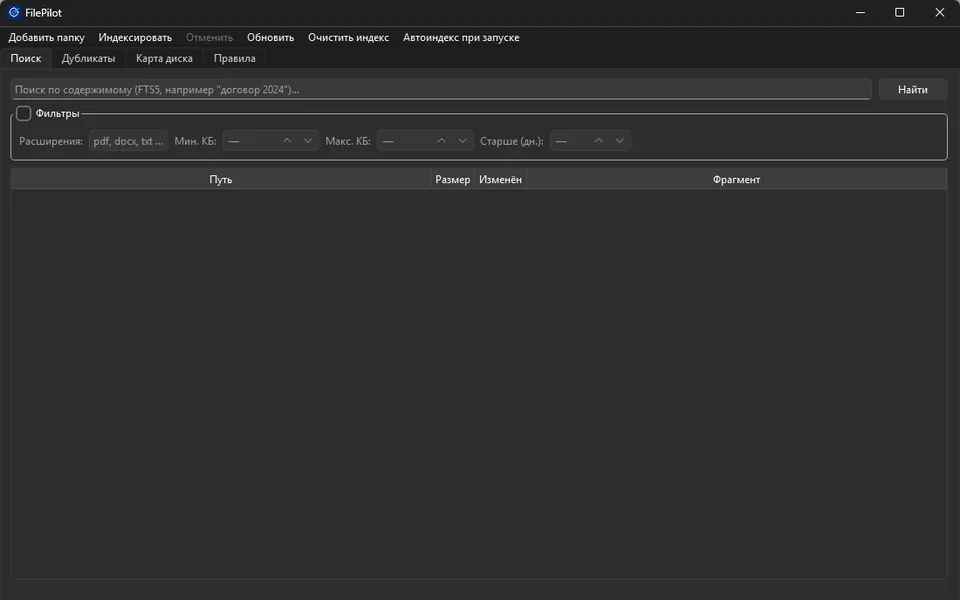
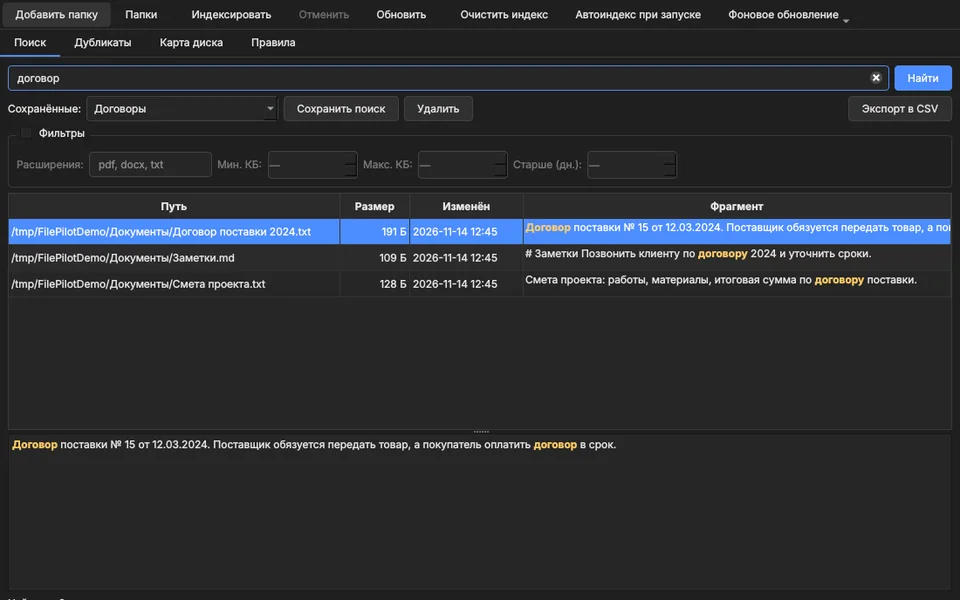
FilePilot page: download buttons, RU/EN description, updated screenshots
Claude-Session: https://claude.ai/code/session_01NerikoswBbYBDuZytkpSfQ

diff --git a/project-filepilot.html b/project-filepilot.html
@@ -4,13 +4,13 @@
     <meta charset="UTF-8">
     <meta name="viewport" content="width=device-width, initial-scale=1.0">
     <title>FilePilot — Portfolio</title>
-    <meta name="description" content="Десктопное приложение (EXE) для Windows: поиск по содержимому, поиск дубликатов и умная автосортировка. Полная приватность.">
+    <meta name="description" content="Программа для Windows с открытым кодом: поиск по содержимому файлов, дубликаты, карта диска и автосортировка. Русский и английский интерфейс. Всё работает локально.">
     <meta name="theme-color" content="#050505">
     <meta property="og:site_name" content="Portfolio">
     <meta property="og:locale" content="ru_RU">
     <meta property="og:type" content="website">
     <meta property="og:title" content="FilePilot — Portfolio">
-    <meta property="og:description" content="Десктопное приложение (EXE) для Windows: поиск по содержимому, поиск дубликатов и умная автосортировка. Полная приватность.">
+    <meta property="og:description" content="Программа для Windows с открытым кодом: поиск по содержимому файлов, дубликаты, карта диска и автосортировка. Русский и английский интерфейс. Всё работает локально.">
     <meta property="og:image" content="https://dyrty11.github.io/img/og-filepilot.jpg">
     <meta property="og:image:width" content="1200">
     <meta property="og:image:height" content="630">
@@ -18,10 +18,10 @@
     <link rel="canonical" href="https://dyrty11.github.io/project-filepilot.html">
     <meta property="og:url" content="https://dyrty11.github.io/project-filepilot.html">
     <meta name="project-slug" content="filepilot">
-    <script type="application/ld+json">{"@context":"https://schema.org","@graph":[{"@type":"CreativeWork","@id":"https://dyrty11.github.io/project-filepilot.html#project","name":"FilePilot","description":"Десктопное приложение (EXE) для Windows: поиск по содержимому, поиск дубликатов и умная автосортировка. Полная приватность.","url":"https://dyrty11.github.io/project-filepilot.html","image":"https://dyrty11.github.io/img/og-filepilot.jpg","inLanguage":"ru","author":{"@type":"Person","name":"dyrty11","url":"https://github.com/dyrty11"}},{"@type":"BreadcrumbList","itemListElement":[{"@type":"ListItem","position":1,"name":"Главная","item":"https://dyrty11.github.io/"},{"@type":"ListItem","position":2,"name":"Проекты","item":"https://dyrty11.github.io/projects.html"},{"@type":"ListItem","position":3,"name":"FilePilot","item":"https://dyrty11.github.io/project-filepilot.html"}]}]}</script>
+    <script type="application/ld+json">{"@context":"https://schema.org","@graph":[{"@type":"CreativeWork","@id":"https://dyrty11.github.io/project-filepilot.html#project","name":"FilePilot","description":"Программа для Windows с открытым кодом: поиск по содержимому файлов, дубликаты, карта диска и автосортировка. Русский и английский интерфейс. Всё работает локально.","url":"https://dyrty11.github.io/project-filepilot.html","image":"https://dyrty11.github.io/img/og-filepilot.jpg","inLanguage":"ru","author":{"@type":"Person","name":"dyrty11","url":"https://github.com/dyrty11"}},{"@type":"BreadcrumbList","itemListElement":[{"@type":"ListItem","position":1,"name":"Главная","item":"https://dyrty11.github.io/"},{"@type":"ListItem","position":2,"name":"Проекты","item":"https://dyrty11.github.io/projects.html"},{"@type":"ListItem","position":3,"name":"FilePilot","item":"https://dyrty11.github.io/project-filepilot.html"}]}]}</script>
     <meta name="twitter:card" content="summary_large_image">
     <meta name="twitter:title" content="FilePilot — Portfolio">
-    <meta name="twitter:description" content="Десктопное приложение (EXE) для Windows: поиск по содержимому, поиск дубликатов и умная автосортировка. Полная приватность.">
+    <meta name="twitter:description" content="Программа для Windows с открытым кодом: поиск по содержимому файлов, дубликаты, карта диска и автосортировка. Русский и английский интерфейс. Всё работает локально.">
     <meta name="twitter:image" content="https://dyrty11.github.io/img/og-filepilot.jpg">
     <link rel="icon" href="favicon.svg" type="image/svg+xml">
     <link rel="apple-touch-icon" href="apple-touch-icon.png">
@@ -74,7 +74,7 @@
         <div class="container" id="main" tabindex="-1">
             <nav class="crumbs" aria-label="Навигация"><a href="projects.html">← Все проекты</a></nav>
             <article id="projectDetail" aria-live="polite" data-reveal><p class="detail-msg">Загрузка…</p></article>
-        <noscript><h1>FilePilot</h1><p class="detail-msg">Десктопное приложение (EXE) для Windows: поиск по содержимому, поиск дубликатов и умная автосортировка. Полная приватность. <a href="projects.html">Все проекты</a>.</p></noscript>
+        <noscript><h1>FilePilot</h1><p class="detail-msg">Программа для Windows с открытым кодом: поиск по содержимому файлов, дубликаты, карта диска и автосортировка. Русский и английский интерфейс. Всё работает локально. <a href="projects.html">Все проекты</a>.</p></noscript>
         </div>
         <footer>
             <div class="footer-content">

diff --git a/project.js b/project.js
@@ -64,6 +64,22 @@
         document.head.appendChild(s);
     }
 
+    function addDownloads(parent, p, en) {
+        if (!Array.isArray(p.downloads) || !p.downloads.length) return;
+        var box = el('div', 'detail-downloads');
+        var n = 0;
+        p.downloads.slice(0, 6).forEach(function (d) {
+            var u = safeUrl(d && d.url); if (!u) return;
+            var b = el('a', 'btn ' + (n === 0 ? 'btn-primary ' : '') + 'detail-cta', String((en ? d.labelEn : d.label) || d.label || 'Скачать'));
+            b.href = u; b.target = '_blank'; b.rel = 'noopener noreferrer';
+            box.appendChild(b); n++;
+        });
+        if (!n) return;
+        parent.appendChild(box);
+        var note = en ? p.downloadNoteEn : p.downloadNote;
+        if (note) parent.appendChild(el('p', 'detail-note', String(note)));
+    }
+
     function render(p) {
         var title = String(p.title || 'Проект');
         document.title = title + ' — Portfolio';
@@ -92,6 +108,7 @@
             info.appendChild(tags);
         }
         info.appendChild(el('p', 'detail-lead', String(p.description || '')));
+        addDownloads(info, p, false);
         if (p.details) {
             String(p.details).split(/\n\s*\n/).forEach(function (para) {
                 if (para.trim()) info.appendChild(el('p', 'detail-text', para.trim()));
@@ -121,8 +138,15 @@
         if (Array.isArray(p.gallery) && p.gallery.length) {
             var gal = el('section', 'detail-gallery');
             gal.appendChild(el('h2', 'detail-sub', 'Скриншоты'));
-            p.gallery.slice(0, 6).forEach(function (g) {
+            var lastGroup = '';
+            p.gallery.slice(0, 12).forEach(function (g) {
                 var src = safeImg(g && g.src); if (!src) return;
+                if (g.group && g.group !== lastGroup) {
+                    lastGroup = String(g.group);
+                    var gh = el('h3', 'detail-group', lastGroup);
+                    if (/^[A-Za-z]/.test(lastGroup)) gh.setAttribute('lang', 'en');
+                    gal.appendChild(gh);
+                }
                 var fig = el('figure', 'detail-shot');
                 var gi = el('img'); gi.src = src; gi.alt = String(g.alt || ''); gi.loading = 'lazy'; gi.decoding = 'async';
                 if (g.width && g.height) { gi.width = Number(g.width) || 0; gi.height = Number(g.height) || 0; }

diff --git a/index.html b/index.html
@@ -130,7 +130,7 @@
                             <span class="tag"><svg viewBox="0 0 24 24" fill="none" stroke="currentColor" stroke-width="2" stroke-linejoin="miter" stroke-linecap="square"><path d="M6 6h12v12H6z"/><path d="M10 10h4v4h-4z" fill="var(--ic2, currentColor)" stroke="none"/><path d="M9.5 2.5V6M14.5 2.5V6M9.5 18v3.5M14.5 18v3.5"/></svg> EXE</span>
                         </div>
                         <a class="details-link" href="project-filepilot.html" aria-label="Подробнее о проекте FilePilot">Подробнее →</a>
-                        <a href="https://pomf2.lain.la/f/ff7rdfxg.7z" target="_blank" rel="noopener noreferrer" class="action-btn">
+                        <a href="https://github.com/dyrty11/filepilot/releases/latest/download/FilePilotSetup.exe" target="_blank" rel="noopener noreferrer" class="action-btn">
                             <span>Скачать (Windows)</span>
                             <svg viewBox="0 0 24 24" fill="none" stroke="currentColor" stroke-width="2" stroke-linejoin="miter" stroke-linecap="square"><path d="M12 3v12"/><path d="M6.5 10.5L12 16l5.5-5.5"/><path d="M3.5 20.5h17"/></svg>
                         </a>

diff --git a/cards.css b/cards.css
@@ -57,3 +57,9 @@
 #facts { margin-top: 90px; }
 .service-card p a { color: var(--accent); text-decoration: underline; text-underline-offset: 3px; }
 .service-card p a:hover { color: var(--text-main); }
+.detail-downloads { display: flex; flex-wrap: wrap; gap: 10px; margin: 14px 0 6px; }
+.detail-downloads .detail-cta + .detail-cta { margin: 0; }
+.detail-note { font-size: 0.9rem; opacity: 0.8; margin: 4px 0 14px; max-width: 62ch; }
+.detail-group { grid-column: 1 / -1; font-size: 1.05rem; margin: 22px 0 4px; }
+.detail-en { margin-top: 34px; padding-top: 6px; border-top: 1px solid rgba(128, 128, 128, 0.25); }
+
